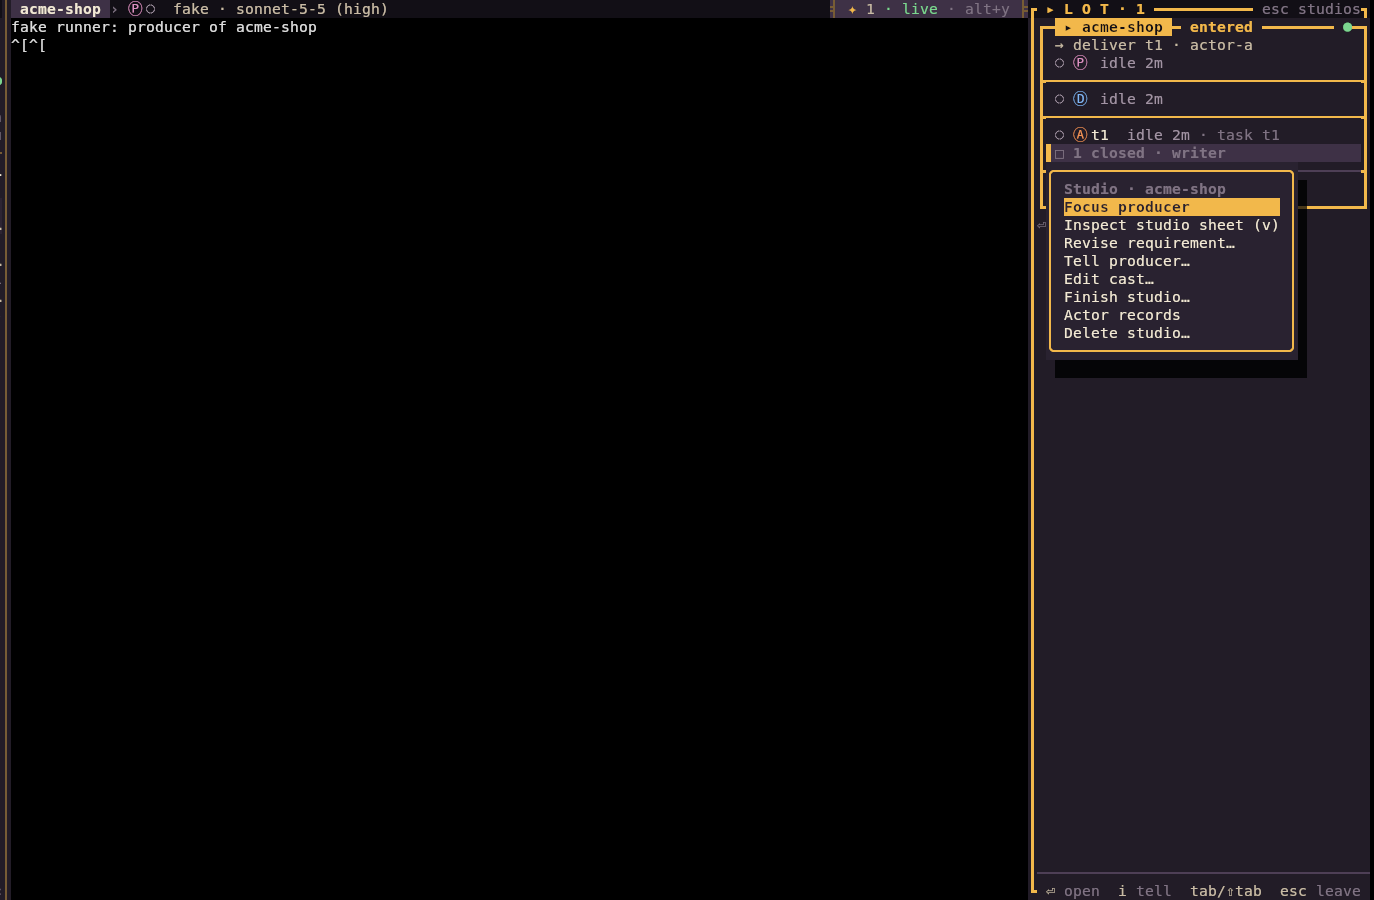
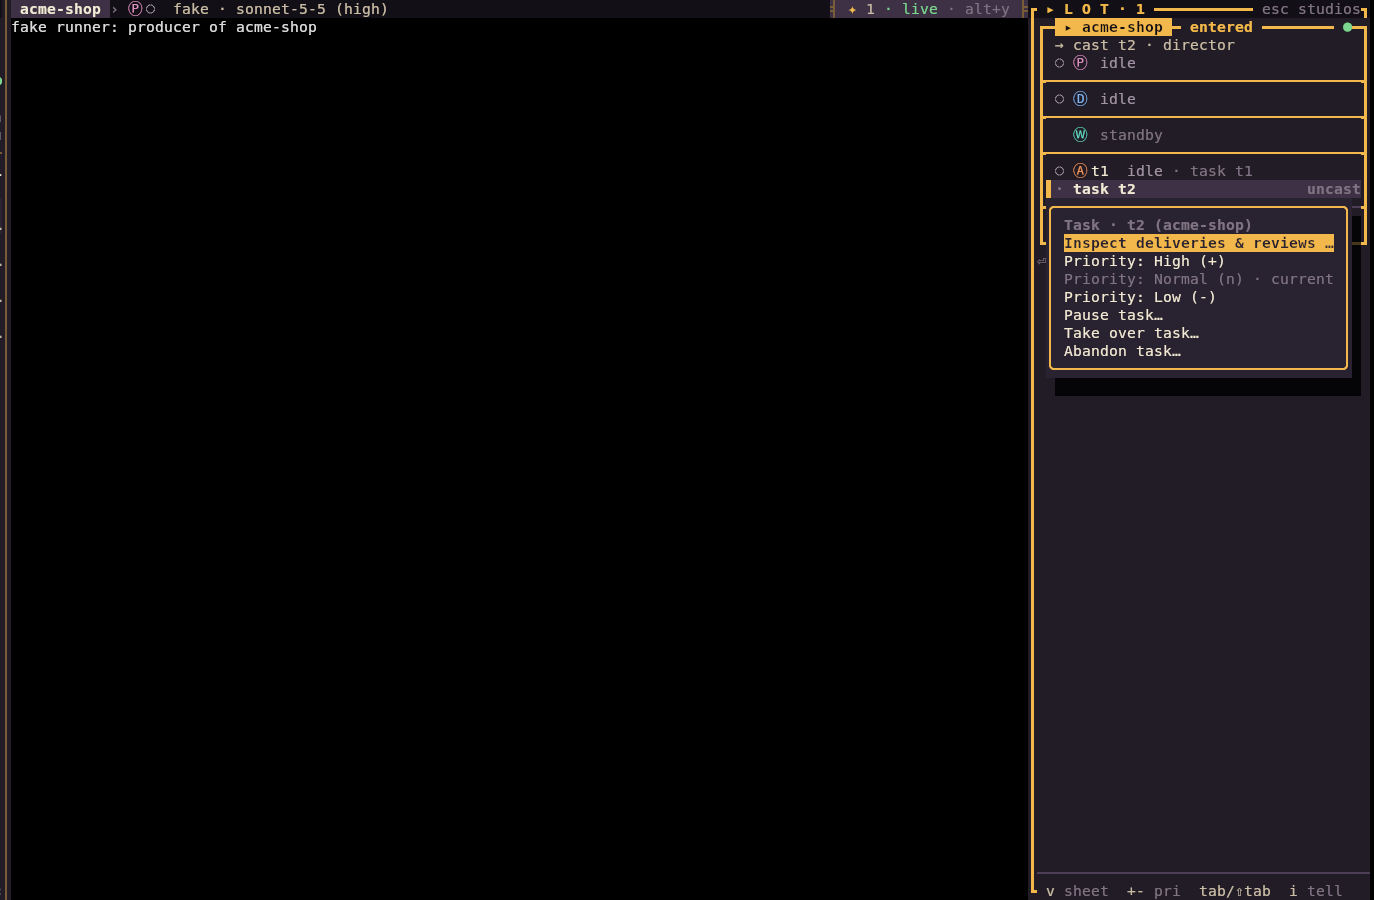
docs(images): show the task row menu

Changed region(s): [[0.7642, 0.1244, 1.0, 0.4667], [0.8253, 0.9644, 0.9782, 0.9956], [0.7948, 0.0311, 0.8559, 0.0622]]

diff --git a/README.md b/README.md
@@ -156,8 +156,8 @@ Every studio is its own space in the client, its roles are the tabs. A new tab o
 shell* — your own terminal in the focused person's worktree — listed under `shells` in the cast. The
 stage never touches it, and closing it is your call alone.
 
-Rows have menus. On a task the menu carries the task's own actions — tell the actor, revise the work, pause it —
-rather than making you remember a command:
+Rows have menus. On a task the menu carries the task's own actions — inspect its deliveries and reviews,
+change priority, pause it, take it over or abandon it — rather than making you remember a command:
 
 ![A row menu opened with m on a task in the Lot](docs/images/menu.png)
 
